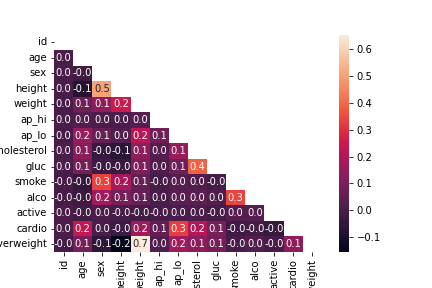
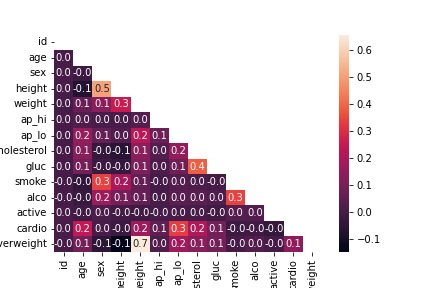
solved some issues

diff --git a/Data Analysis with Python/Mean-Variance-Standard Deviation Calculator/mean_var_std.py b/Data Analysis with Python/Mean-Variance-Standard Deviation Calculator/mean_var_std.py
@@ -5,52 +5,50 @@ Created on Tue Mar 12 10:03:04 2024
 
 @author: martinjendryka
 """
-
 import numpy as np
-
 def calculate(input_list):
     if len(input_list)<9:
         raise ValueError('List must contain nine numbers.')
-    # convert input_list into 3x3 numpy array
+    # convert list into 3x3 numpy array
     array = np.array([input_list[:3], input_list[3:6], input_list[6:]])
     
     # calculate mean, variance, std, max, min, sum
     # across rows and col and across all elements
     vals_mean =[]
-    vals_mean.append(np.mean(array, axis=0).tolist()) # across rows
-    vals_mean.append(np.mean(array, axis=1).tolist())  # across col
-    vals_mean.append(np.mean(array))  # across all
+    vals_mean.append(array.mean(axis=0).tolist()) # across rows
+    vals_mean.append(array.mean(axis=1).tolist())  # across col
+    vals_mean.append(array.mean())  # across all
     
     vals_var =[]
-    vals_var.append(np.var(array, axis=0).tolist()) # across rows
-    vals_var.append(np.var(array, axis=1).tolist())  # across col
-    vals_var.append(np.var(array)) # across all
+    vals_var.append(array.var(axis=0).tolist()) # across rows
+    vals_var.append(array.var(axis=1).tolist())  # across col
+    vals_var.append(array.var()) # across all
     
     vals_std= []
-    vals_std.append(np.std(array, axis=0).tolist()) # across rows
-    vals_std.append(np.std(array, axis=1).tolist())  # across col
-    vals_std.append(np.std(array))  # across all
+    vals_std.append(array.std(axis=0).tolist()) # across rows
+    vals_std.append(array.std(axis=1).tolist())  # across col
+    vals_std.append(array.std())  # across all
     
     vals_max= []
-    vals_max.append(np.max(array, axis=0).tolist())  # across rows
-    vals_max.append(np.max(array, axis=1).tolist()) # across col
-    vals_max.append(np.max(array))  # across all
+    vals_max.append(array.max(axis=0).tolist())  # across rows
+    vals_max.append(array.max(axis=1).tolist()) # across col
+    vals_max.append(array.max())  # across all
     
     vals_min = []
-    vals_min.append(np.mean(array, axis=0).tolist())  # across rows
-    vals_min.append(np.mean(array, axis=1).tolist())  # across col
-    vals_min.append(np.mean(array))  # across all
+    vals_min.append(array.min( axis=0).tolist())  # across rows
+    vals_min.append(array.min( axis=1).tolist())  # across col
+    vals_min.append(array.min())  # across all
 
     vals_sum = []
-    vals_sum.append(np.sum(array, axis=0).tolist()) # across rows
-    vals_sum.append(np.sum(array, axis=1).tolist())   # across col
-    vals_sum.append(np.sum(array))   # across all
+    vals_sum.append(array.sum( axis=0).tolist()) # across rows
+    vals_sum.append(array.sum( axis=1).tolist())   # across col
+    vals_sum.append(array.sum())   # across all
 
     # convert into dict
-    dict = {}
-    keys = ('mean','var','standard deviation','max','min','sum')
+    calculations = {}
+    keys = ('mean','variance','standard deviation','max','min','sum')
     vals = (vals_mean,vals_var,vals_std,vals_max,vals_min,vals_sum)
     for val,key in zip(vals,keys):
-        dict[key] = val
+        calculations[key] = val
         
-    return dict
+    return calculations

diff --git a/Data Analysis with Python/Medical Data Visualizer/medical_data_visualizer.py b/Data Analysis with Python/Medical Data Visualizer/medical_data_visualizer.py
@@ -8,7 +8,7 @@ file_name = 'medical_examination.csv'
 df = pd.read_csv(file_name)
 
 # Add 'overweight' column
-df['height'] = df.loc[:,'height']*0.01
+df['height']=df.loc[:,'height']*0.01
 df['BMI'] = df.loc[:,'weight']/(df.loc[:,'height']**2)
 df['overweight'] = 0
 df.loc[df['BMI']>25,'overweight'] = 1 
@@ -16,8 +16,8 @@ df.loc[df['BMI']>25,'overweight'] = 1
 # Normalize data by making 0 always good and 1 always bad. If the value of 'cholesterol' or 'gluc' is 1, make the value 0. If the value is more than 1, make the value 1.
 df.loc[df['cholesterol']==1,'cholesterol'] = 0
 df.loc[df['gluc']==1,'gluc'] = 0
-df.loc[df['cholesterol']>0,'cholesterol'] = 1
-df.loc[df['gluc']>0,'gluc'] = 1
+df.loc[df['cholesterol']>1,'cholesterol'] = 1
+df.loc[df['gluc']>1,'gluc'] = 1
 
 # Draw Categorical Plot
 def draw_cat_plot():
@@ -40,11 +40,12 @@ def draw_cat_plot():
 def draw_heat_map():
     # Clean the data
     df_heat = df.copy()
-    df_heat =df_heat.loc[(df_heat['ap_lo'] <= df_heat['ap_hi']),:]
-    df_heat =df_heat.loc[(df_heat['height'] >= df_heat['height'].quantile(0.025)),:]
-    df_heat =df_heat.loc[(df_heat['height'] <= df_heat['height'].quantile(0.975)),:]
-    df_heat =df_heat.loc[(df_heat['weight'] >= df_heat['weight'].quantile(0.025)),:]
-    df_heat =df_heat.loc[(df_heat['weight'] <= df_heat['weight'].quantile(0.975)),:]
+    df_heat =df_heat.loc[(df_heat['ap_lo'] <= df_heat['ap_hi']) &
+                        (df_heat['height'] >= df_heat['height'].quantile(0.025)) &
+                         (df_heat['height'] <= df_heat['height'].quantile(0.975)) &
+                         (df_heat['weight'] >= df_heat['weight'].quantile(0.025)) &
+                        (df_heat['weight'] <= df_heat['weight'].quantile(0.975)),:]
+    
     new_order = ['id', 'age', 'sex', 'height', 'weight', 'ap_hi', 'ap_lo', 'cholesterol', 'gluc', 'smoke', 'alco', 'active', 'cardio', 'overweight']
     df_heat = df_heat.loc[:,new_order]
     # Calculate the correlation matrix

diff --git a/Data Analysis with Python/Medical Data Visualizer/test_module.py b/Data Analysis with Python/Medical Data Visualizer/test_module.py
@@ -32,7 +32,7 @@ class HeatMapTestCase(unittest.TestCase):
     def setUp(self):
         self.fig = medical_data_visualizer.draw_heat_map()
         self.ax = self.fig.axes[0]
-        #self.maxDiff= None
+        self.maxDiff= None
     def test_heat_map_labels(self):
         actual = []
         for label in self.ax.get_xticklabels():
